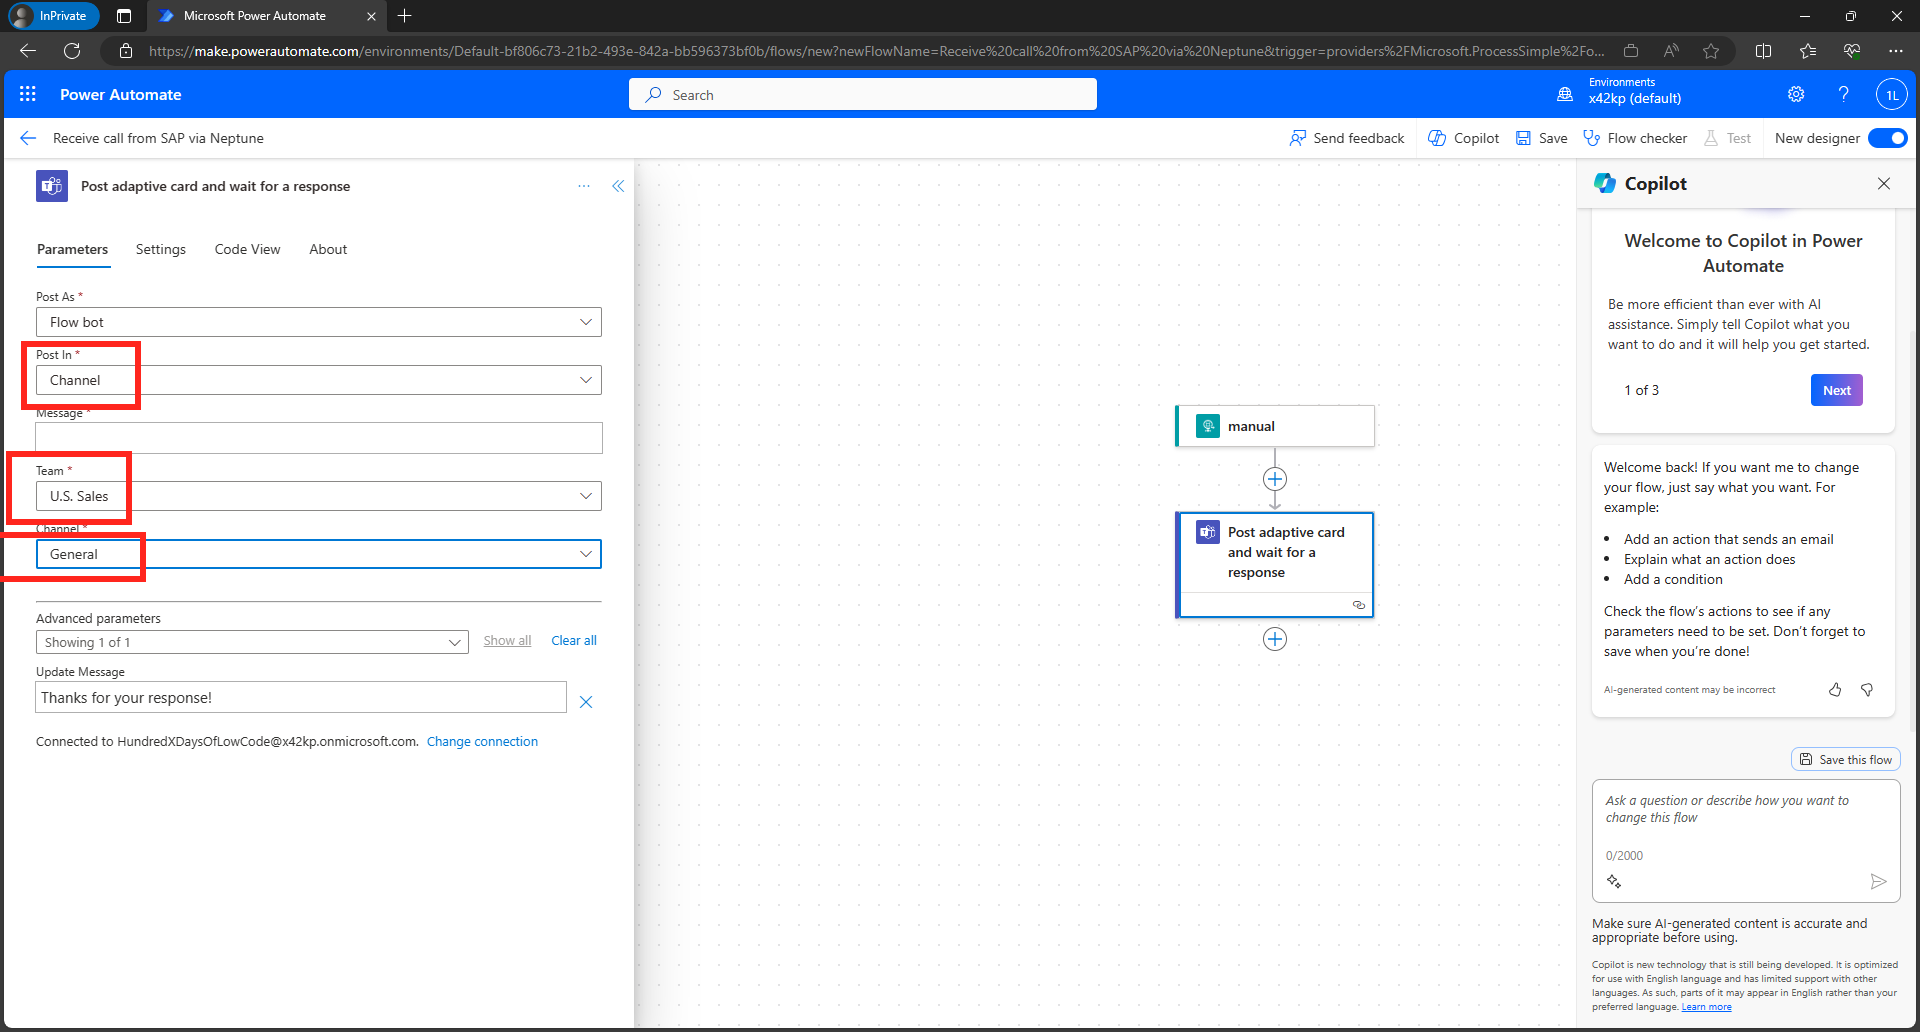
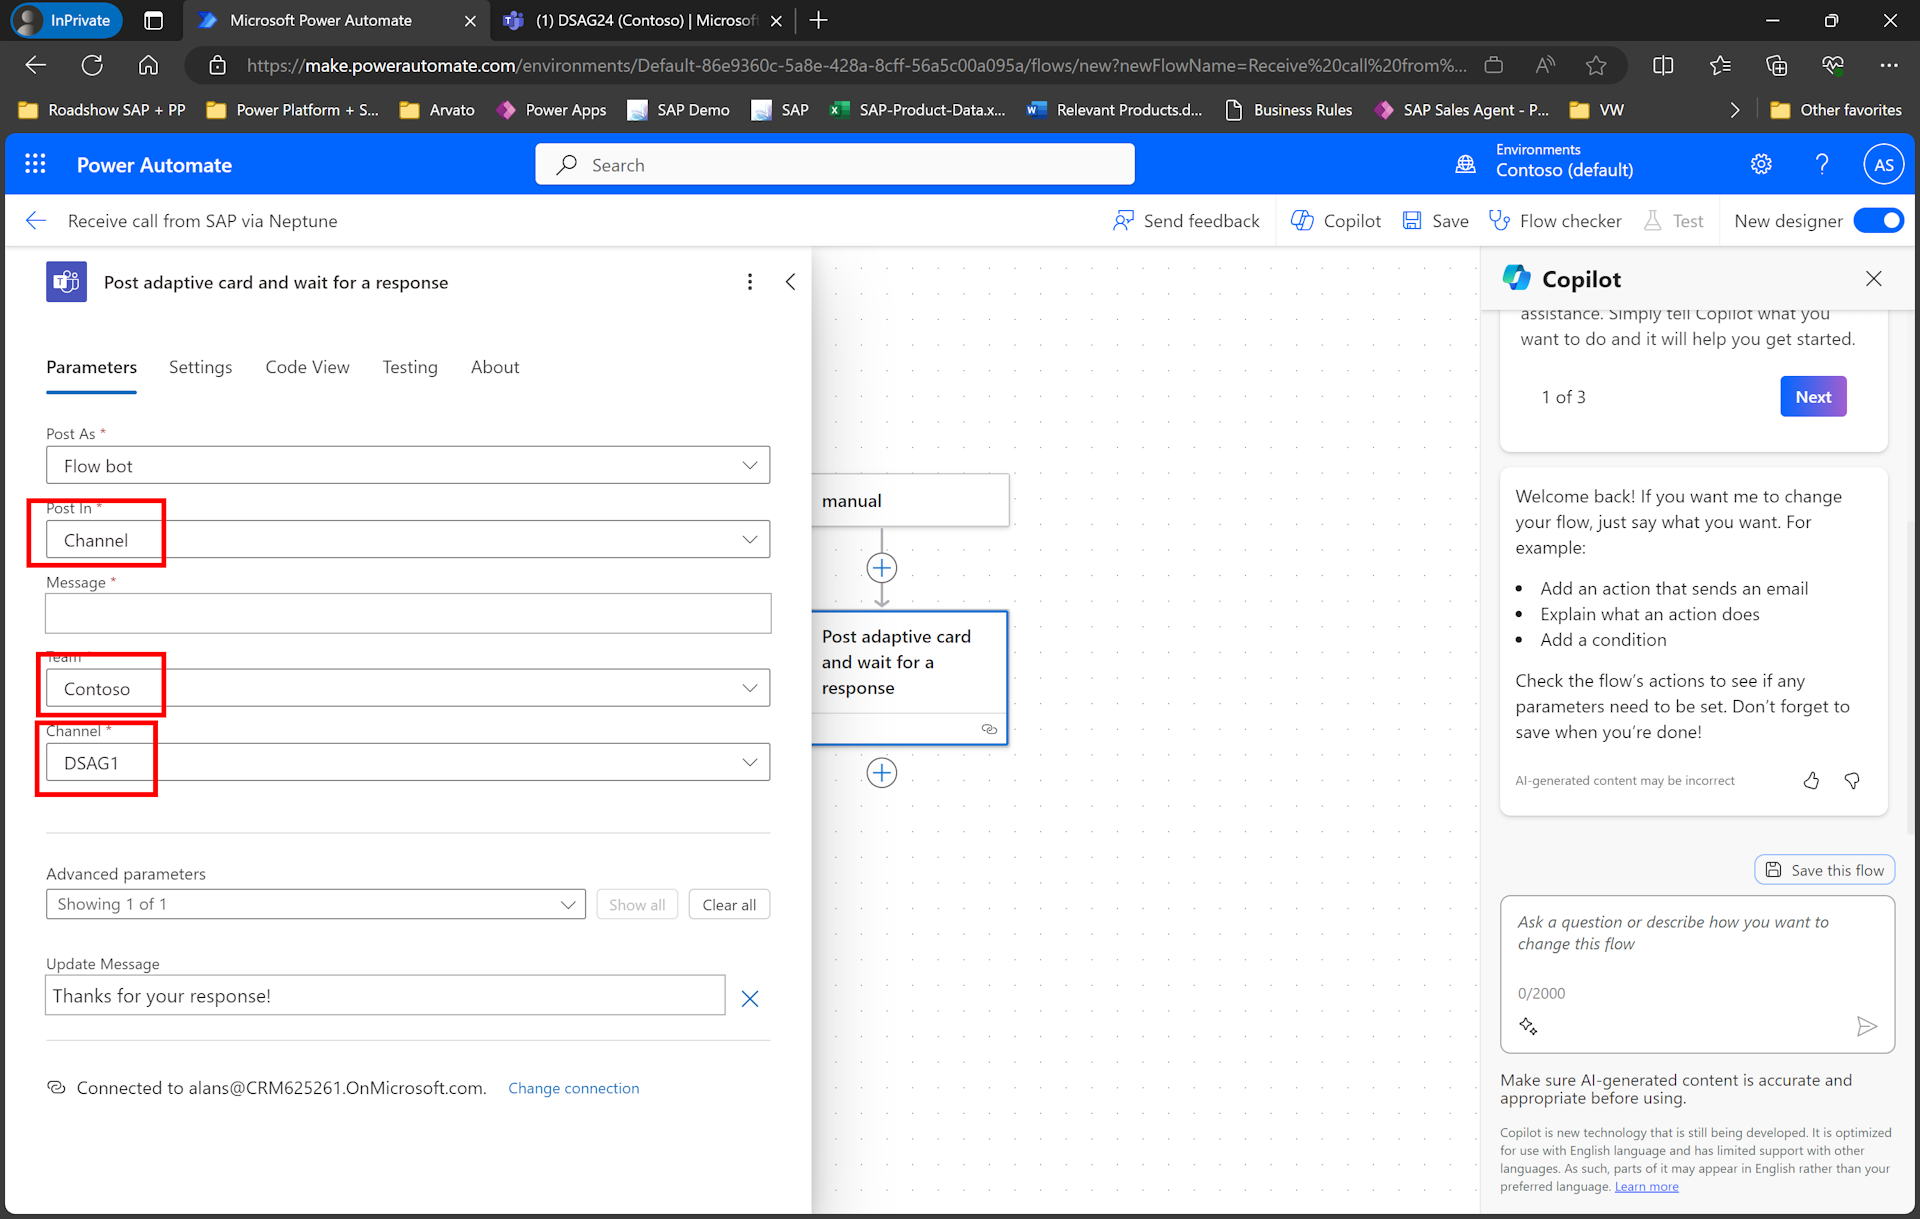
Update Power Automate flow to select Teams channel for posting Adaptive Card

diff --git a/README.md b/README.md
@@ -121,7 +121,10 @@ Now that we have the Neptune app running, let's switch over to Power Automate. F
 - Click on `Sign-in` to connect the Power Automate flow with Teams. Sign-in with your Microsoft 365 user.
   ![Power Automate](images/09-TeamsSignIn.png)
 
-- Select the Channel and Teams where the Adaptive Card should be posted
+- Select the Channel and Teams where the Adaptive Card should be posted. 
+* Post In: `Channel`
+* Team: `Contoso`
+* Channel: <Please select the User that was assigned to you, e.g. `DSAG1`>
   ![Power Automate](images/10-SelectTeamsChannel.png)
 
 - Paste the content for the adaptive card from below in the Message field
